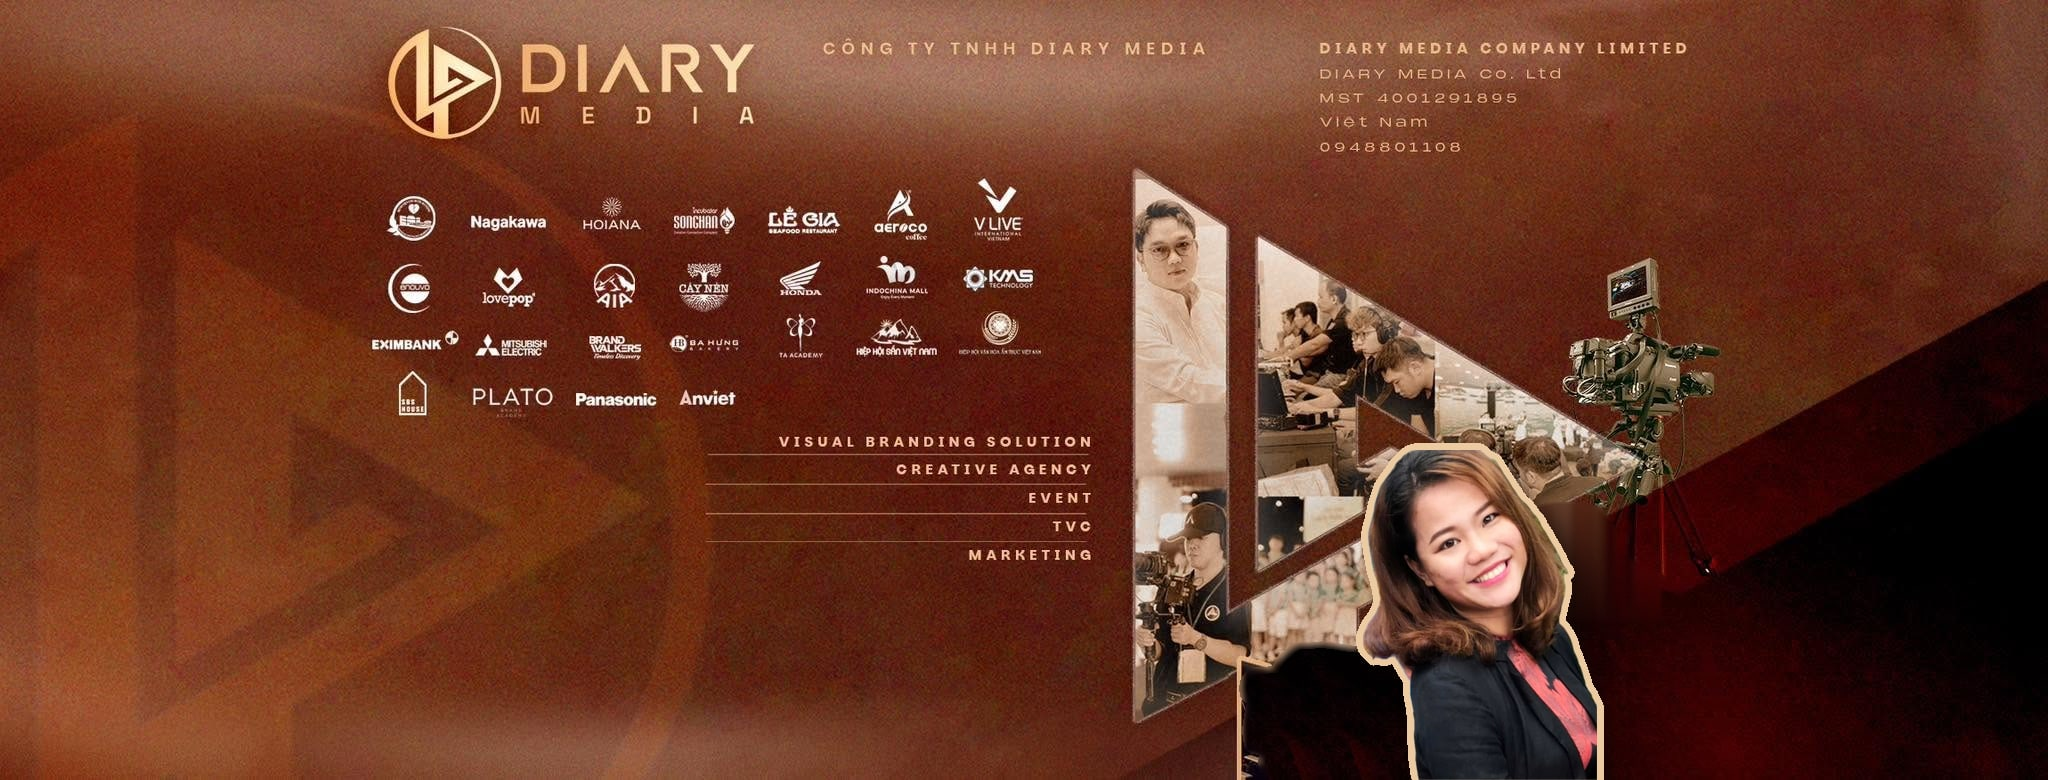
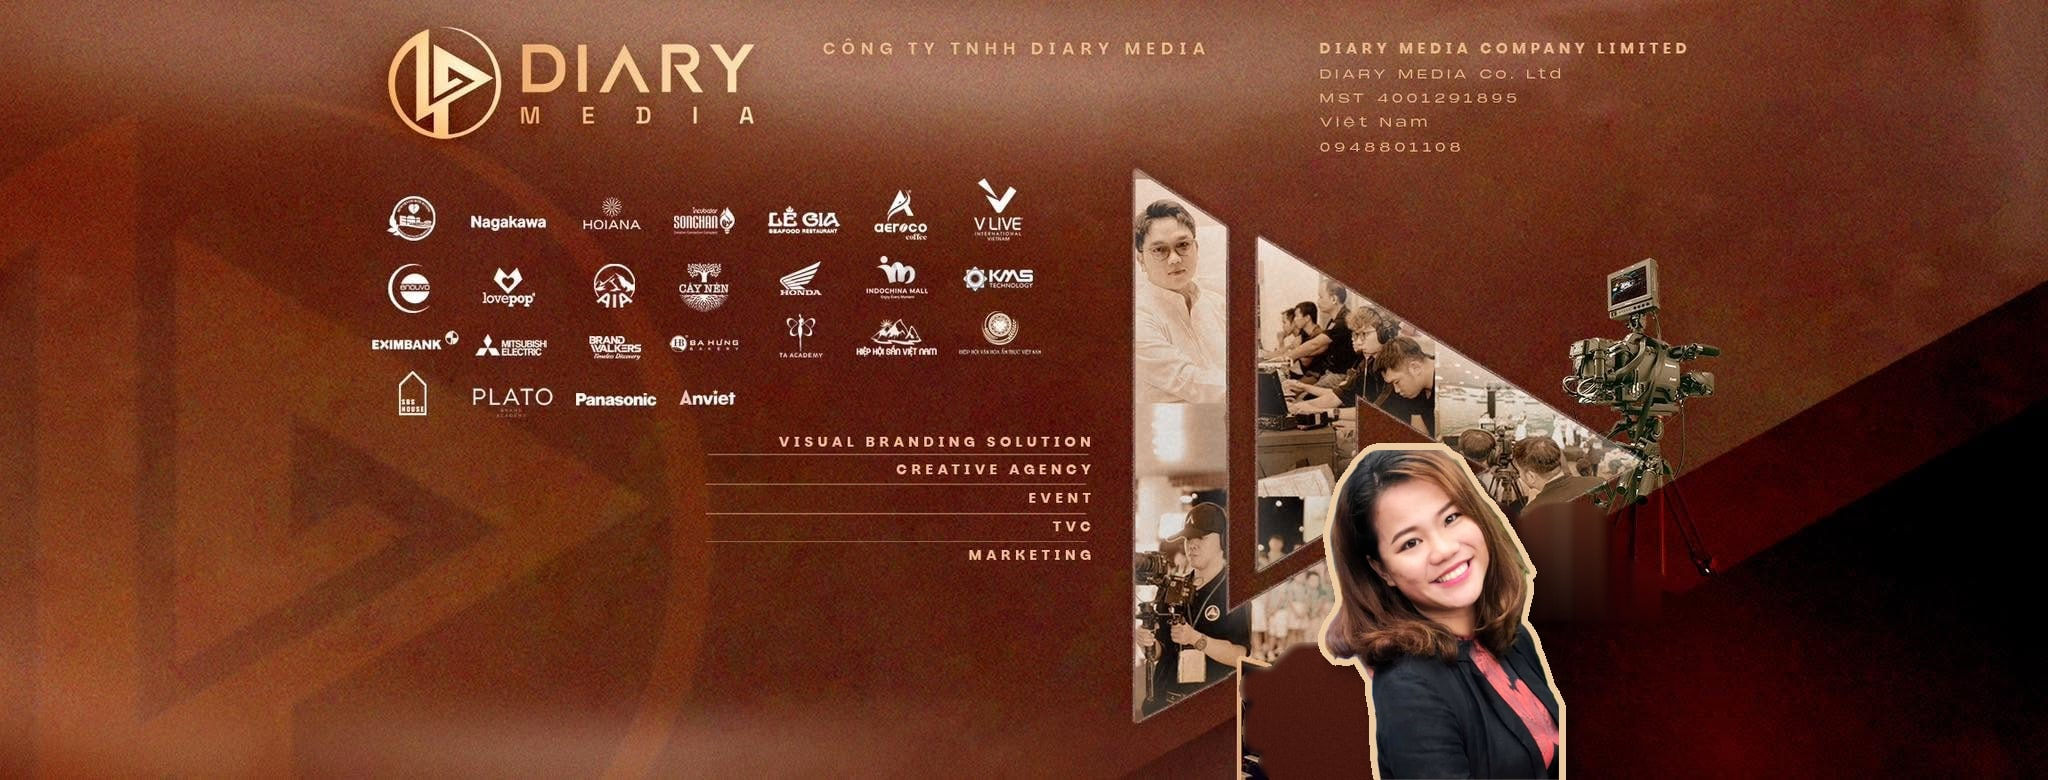
Ảnh bìa: vá mảng tối bên trái chị Kim Tiên, thêm khối thông tin chị (Chủ tịch VINAGC) dẫn tới Hệ Sinh Thái

Changed region(s): [[0.5938, 0.5538, 0.7812, 1.0]]

diff --git a/src/app/page.tsx b/src/app/page.tsx
@@ -2,6 +2,7 @@ import Image from "next/image";
 import Link from "next/link";
 import { ArrowRight, Check } from "lucide-react";
 import { site } from "@/lib/site";
+import { htxDirector } from "@/lib/he-sinh-thai";
 import { solutionServices, productionServices, processSteps, tracks } from "@/lib/services";
 import { ButtonLink, Container, SectionHead, SectionLabel } from "@/components/ui";
 import { ClientMarquee, CtaBlock, FeaturedWork, ServiceCard } from "@/components/blocks";
@@ -29,7 +30,7 @@ export default function HomePage() {
         <div className="relative overflow-hidden rounded-[1.25rem] border border-line bg-black shadow-[0_40px_80px_-40px_rgba(0,0,0,0.8)]">
           <Image
             src="/images/brand/diary-cover.webp"
-            alt="Ảnh bìa Diary Media: logo công ty, các thương hiệu đã đồng hành và ekip đang vận hành máy quay tại phim trường"
+            alt="Ảnh bìa Diary Media: logo công ty, các thương hiệu đã đồng hành, ekip phim trường và chị Huỳnh Thị Kim Tiên — Chủ tịch VINAGC, đối tác Hệ Sinh Thái DIARY"
             width={2048}
             height={780}
             priority
@@ -47,6 +48,39 @@ export default function HomePage() {
             <span className="rec-dot size-[0.75em] rounded-full bg-[#ff3b30]" />
             REC
             <Timecode className="tabular-nums text-white/75" />
+          </div>
+
+          {/* Thông tin chị Kim Tiên, đặt trên khoảng nền đỏ sẫm bên phải ảnh bìa.
+              Toạ độ tính theo % ảnh 2048×780 nên bám đúng vị trí khi ảnh co giãn.
+              Màn nhỏ ảnh quá thấp để đọc được → ẩn, thông tin đầy đủ ở /he-sinh-thai/. */}
+          <div className="absolute bottom-[7%] left-[81.5%] right-[2.6%] z-[2] hidden md:block">
+            <p className="whitespace-nowrap font-mono text-[clamp(7px,0.66vw,10px)] uppercase tracking-[0.18em] text-brand-light/85">
+              Đối tác Hệ Sinh Thái
+            </p>
+            <span aria-hidden className="mt-[0.6vw] block h-px w-[2.6vw] bg-brand/70" />
+            <p
+              className="mt-[0.7vw] whitespace-nowrap text-[clamp(11px,1.32vw,19px)] font-extrabold leading-tight tracking-[-0.01em] text-fg"
+              style={{ fontFamily: "var(--font-display)" }}
+            >
+              {htxDirector.fullName}
+            </p>
+            <p className="mt-[0.3vw] text-[clamp(9px,0.92vw,14px)] font-semibold text-brand-light">
+              {htxDirector.fullRole}
+            </p>
+            <ul className="mt-[0.6vw] flex flex-col gap-[0.25vw] text-[clamp(8px,0.82vw,12.5px)] text-fg-muted">
+              {htxDirector.credentials.slice(0, 1).map((c) => (
+                <li key={c.id} className="flex items-center gap-[0.5em]">
+                  <span aria-hidden className="size-[0.4em] shrink-0 rounded-full bg-brand" />
+                  {c.title}
+                </li>
+              ))}
+            </ul>
+            <Link
+              href="/he-sinh-thai/#nguoi-giu-goc"
+              className="mt-[0.8vw] inline-flex cursor-pointer items-center gap-1 text-[clamp(8px,0.82vw,12.5px)] font-semibold text-brand underline-offset-4 hover:underline"
+            >
+              Xem câu chuyện của chị →
+            </Link>
           </div>
         </div>
 
